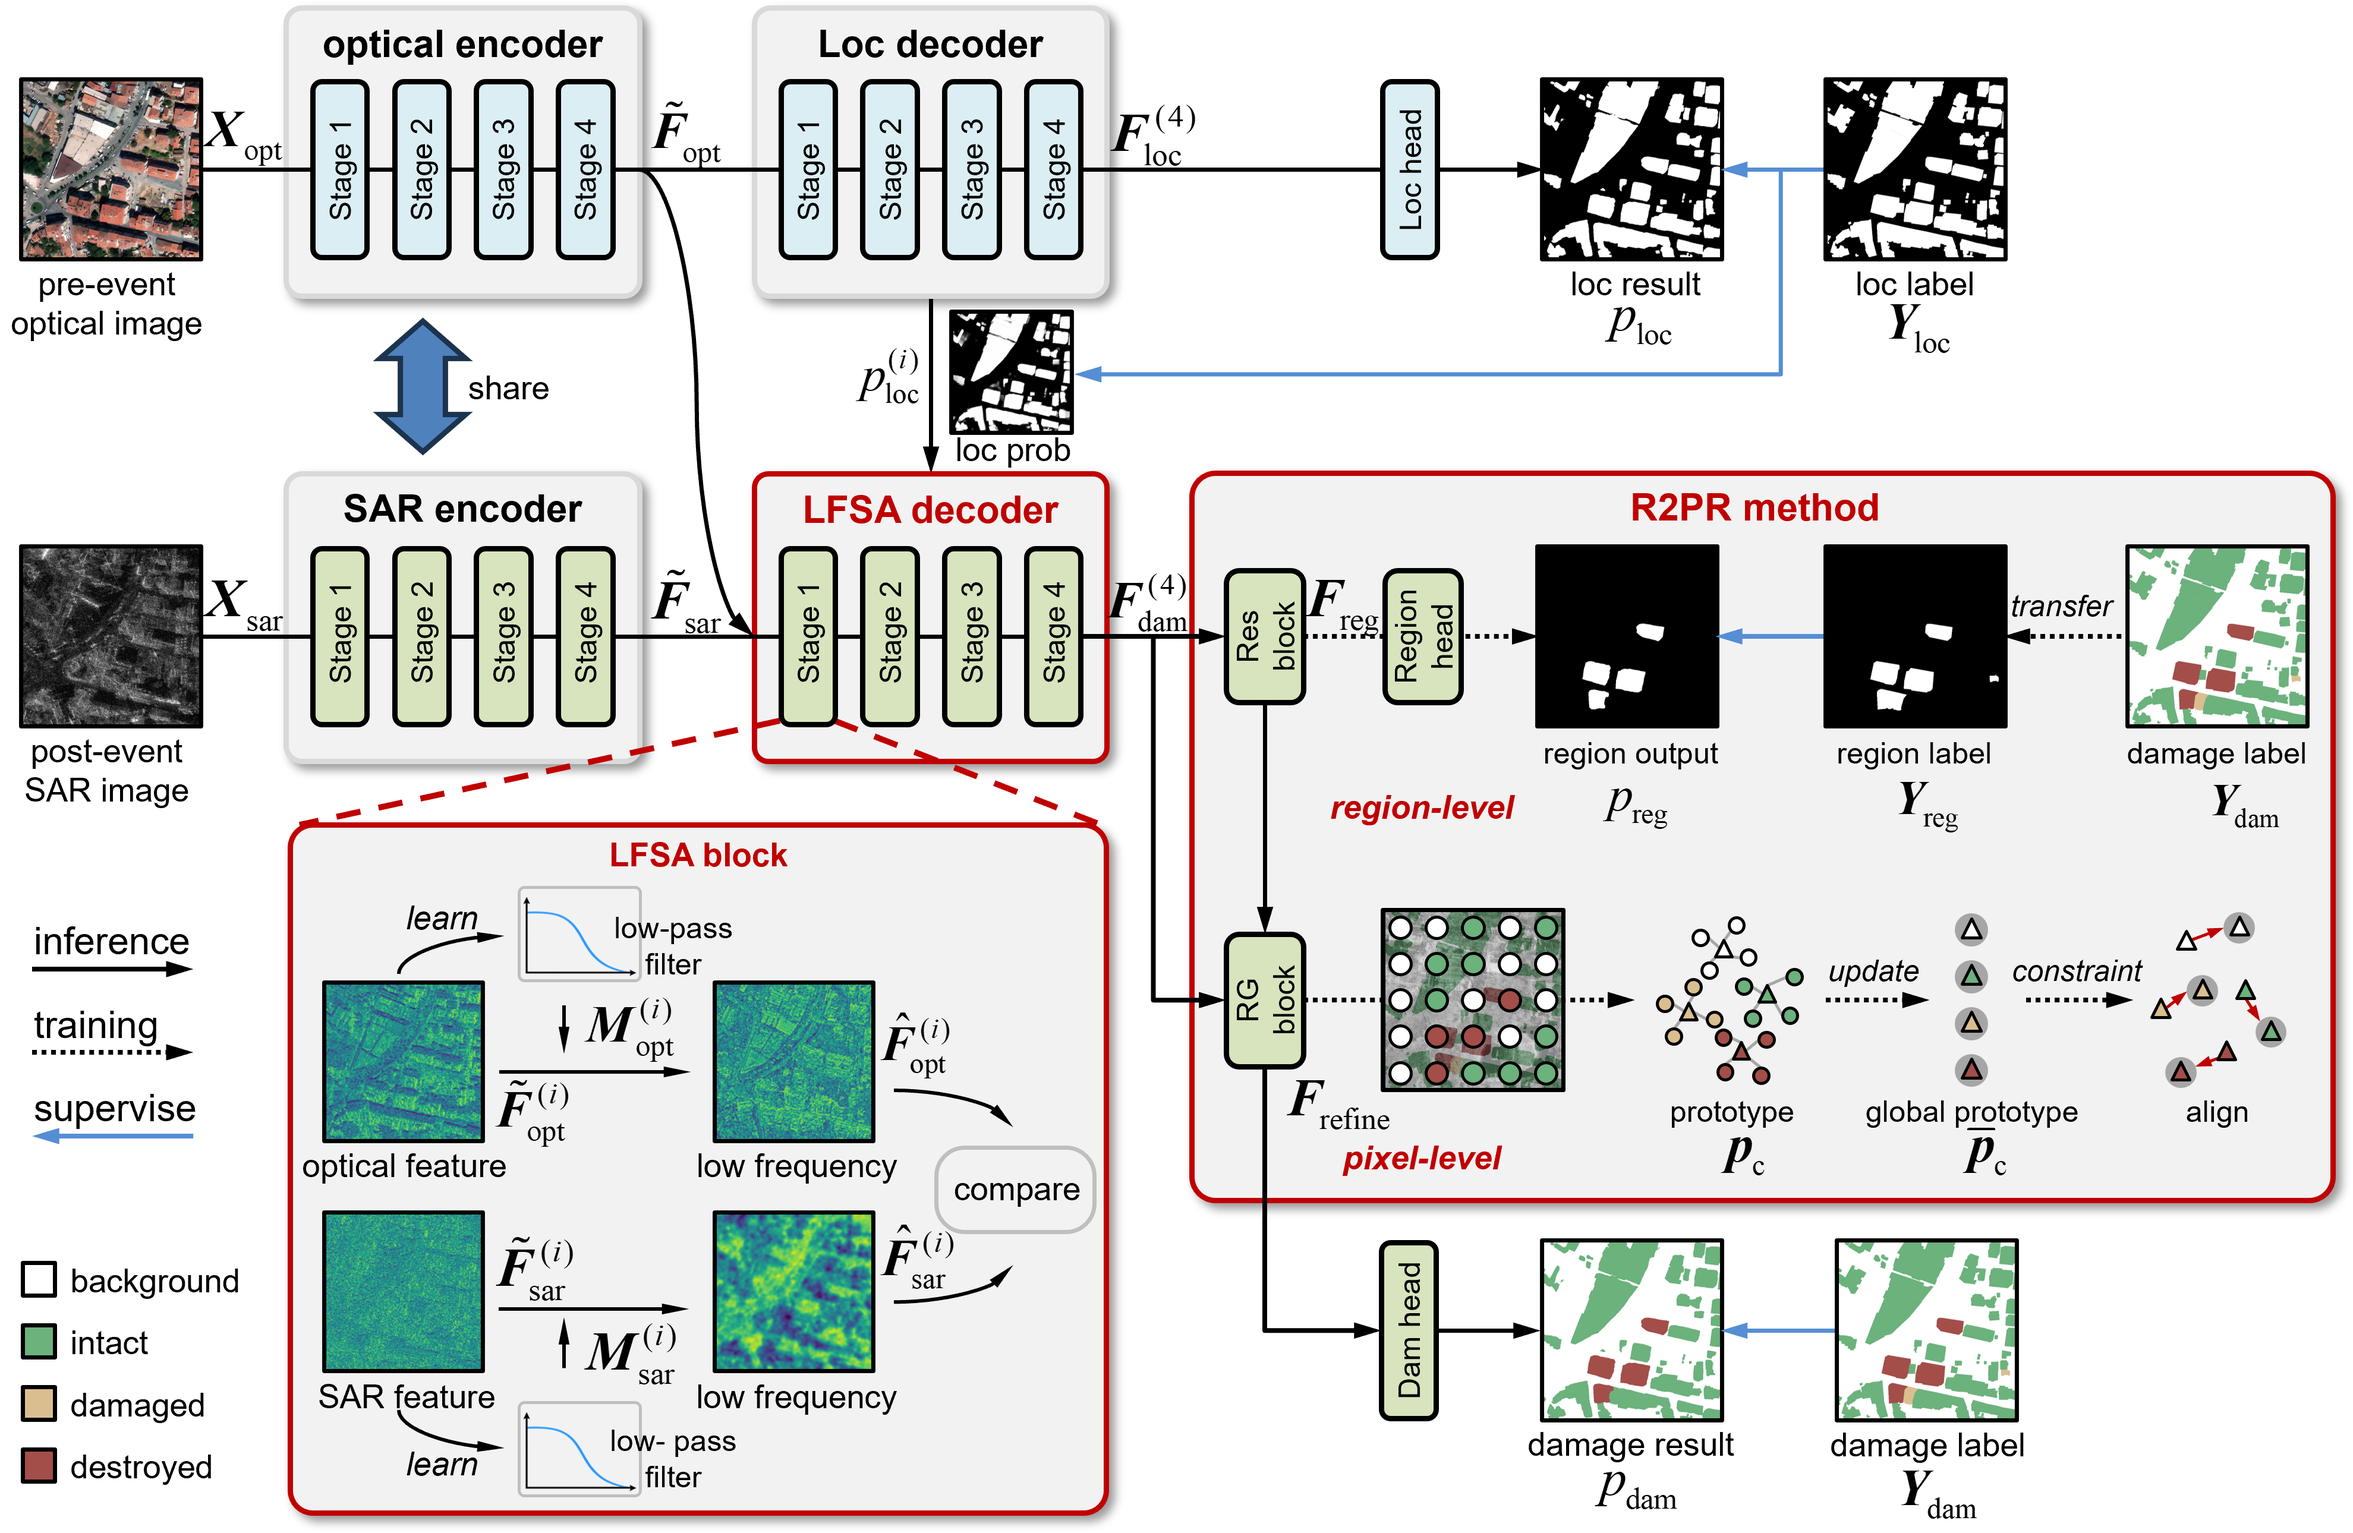
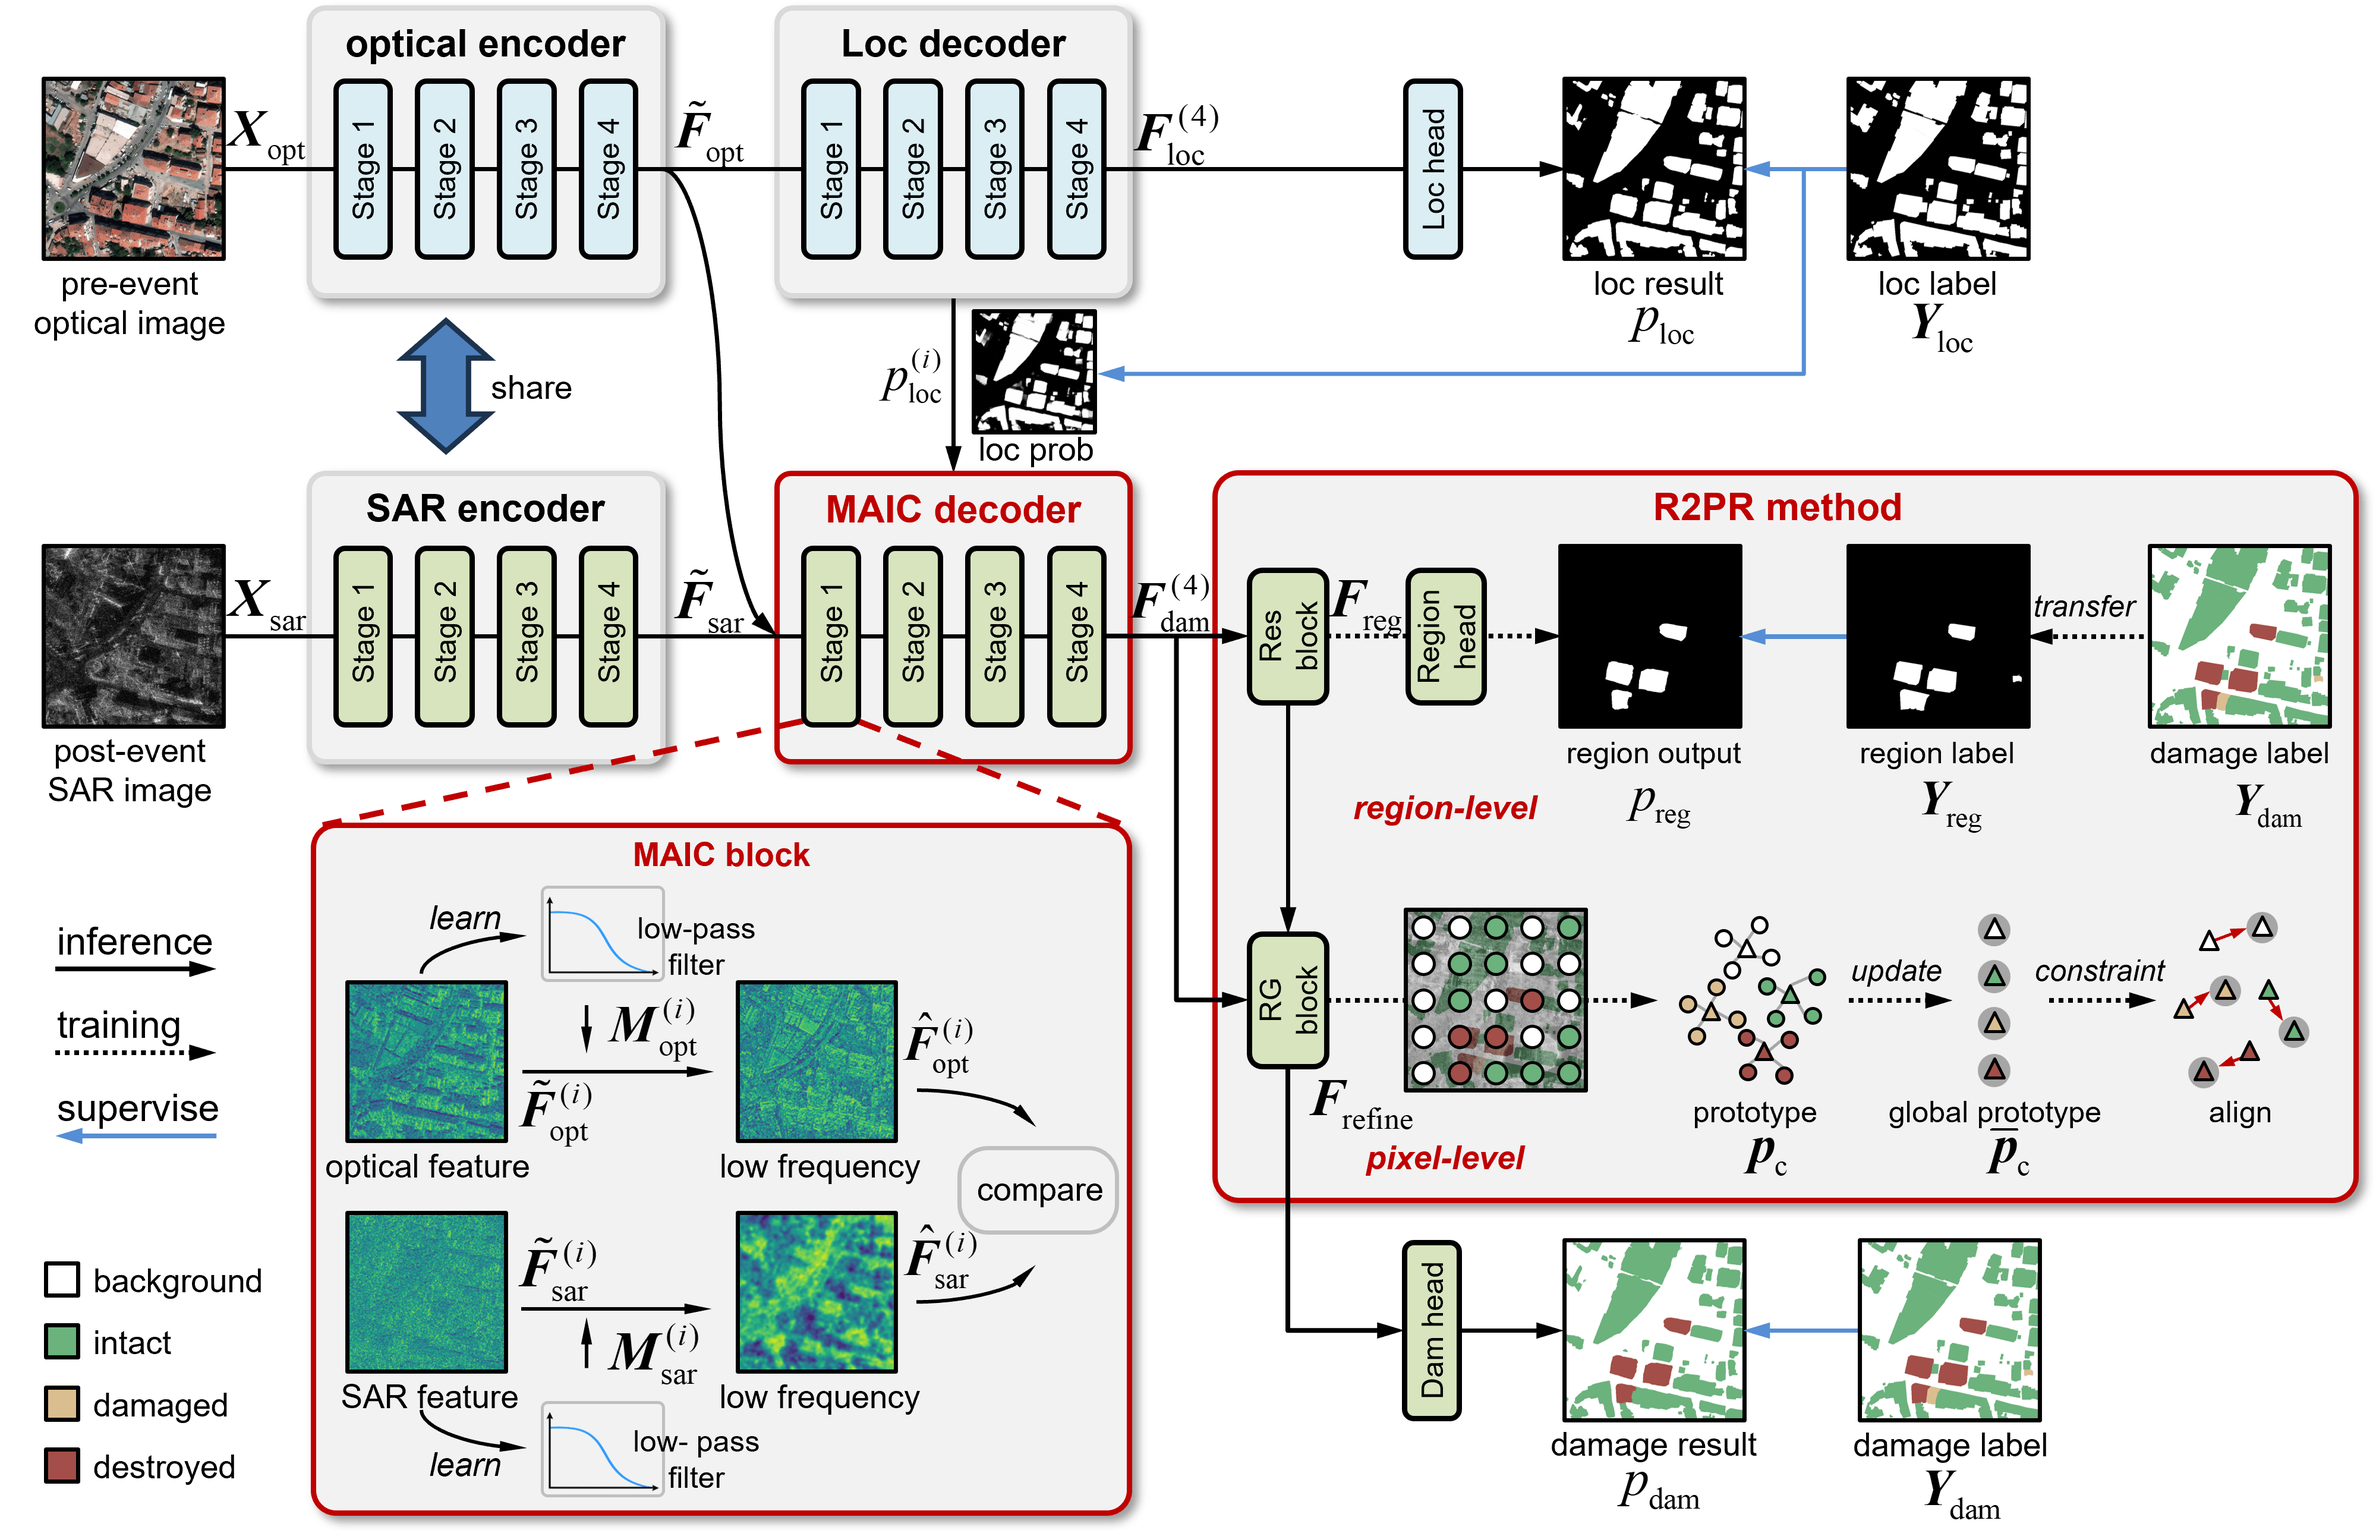
update

diff --git a/README.md b/README.md
@@ -112,6 +112,25 @@ Arguments:
 
 By default, evaluation prints per-class IoU and mIoU, and reports per-disaster-event and per-disaster-type metrics. To also save the predictions, set `TEST.SAVE_PRED: True` and/or `TEST.SAVE_VIS: True` in the config file; the results are written under the config directory in `test_results/`.
 
+
+## Citation
+
+If this work is helpful to your research, please cite it as follows:
+```
+@article{WEI2027104873,
+title = {Low-frequency guided region-to-pixel refinement network for multimodal building damage assessment},
+journal = {Information Fusion},
+volume = {139},
+pages = {104873},
+year = {2027},
+issn = {1566-2535},
+doi = {https://doi.org/10.1016/j.inffus.2026.104873},
+url = {https://www.sciencedirect.com/science/article/pii/S1566253526007499},
+author = {Tianyu Wei and He Chen and Ailong Ma and Zhuo Zheng and Wenchao Liu and Jue Wang and Liang Chen},
+```
+If you have any question, please email to me (weity@bit.edu.cn).
+
+
 ## Acknowledgment
 
 This project is based on the following works:
@@ -121,11 +140,3 @@ This project is based on the following works:
 - VMamba ([Paper](https://arxiv.org/abs/2401.10166), [Github Code](https://github.com/MzeroMiko/VMamba))
 
 Thanks for their excellent works.
-
-[//]: #
-[//]: #
-[//]: #
-[//]: #
-[//]: #
-[//]: #
-[//]: #
